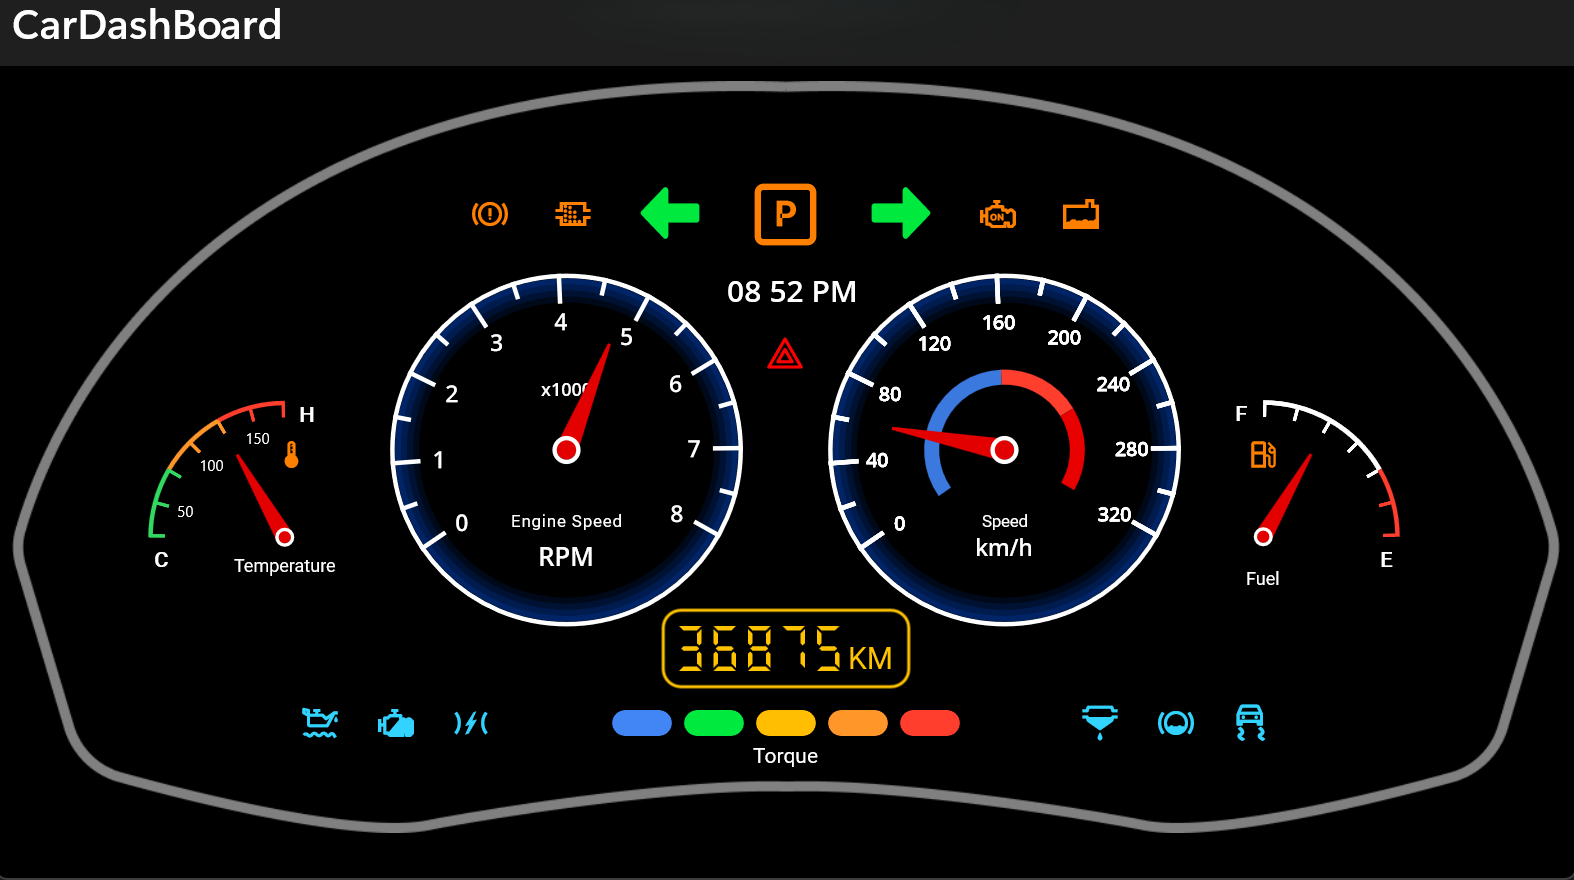
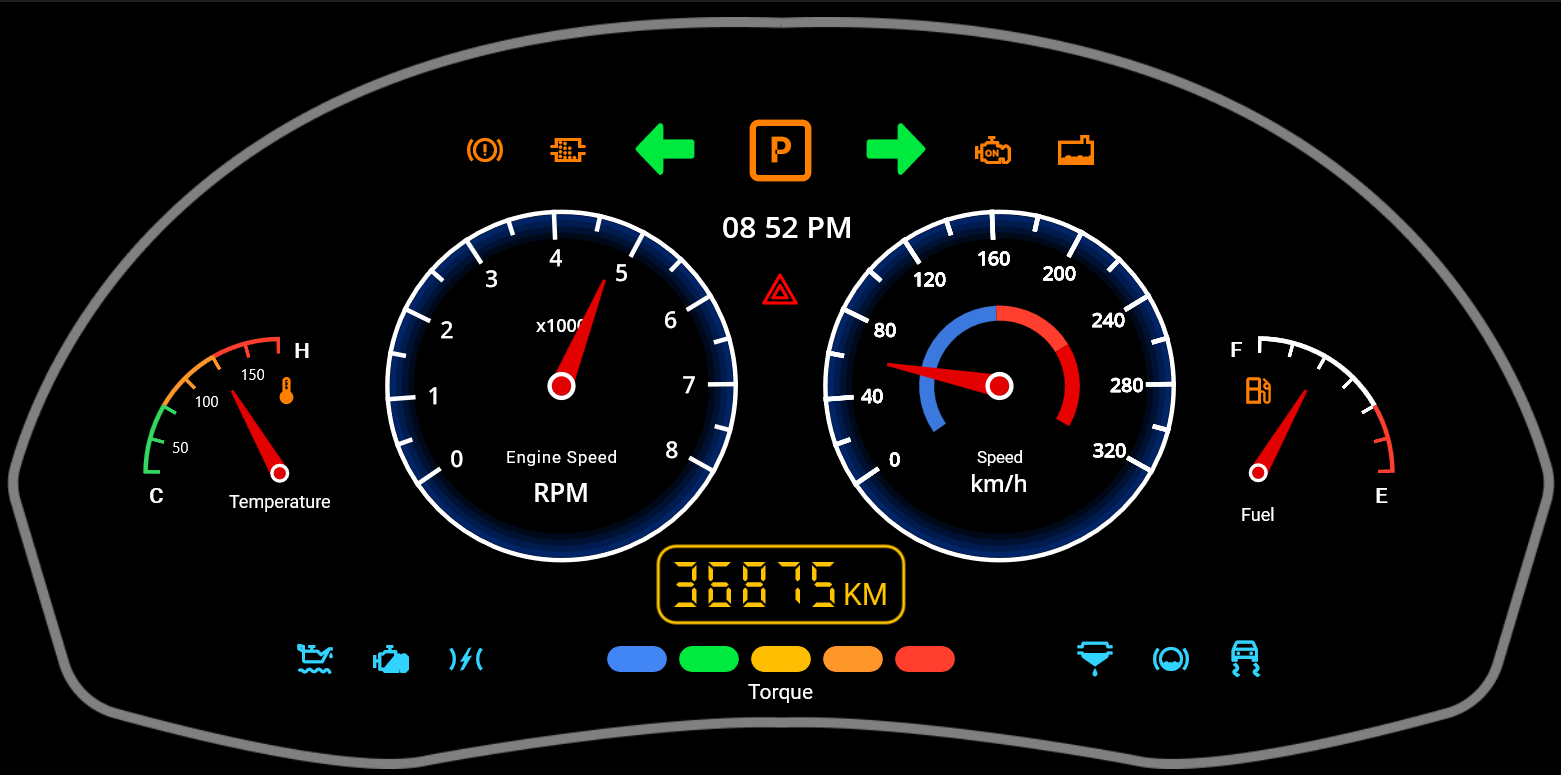
934406 - Addressed Review Correction

diff --git a/README.md b/README.md
@@ -45,9 +45,7 @@ This project uses the following Syncfusion controls based on the information in 
 
 .NET Multi-platform App UI (.NET MAUI) apps can be written for the following platforms:
 
-* Android 5.0 (API 21) or higher.
-* iOS 11 or higher, using the latest release of Xcode.
-* macOS 10.15 or higher, using Mac Catalyst.
+* macOS 15.1 or higher, using Mac Catalyst.
 * Windows 11 and Windows 10 version 1809 or higher, using [Windows UI Library (WinUI) 3](https://learn.microsoft.com/en-us/windows/apps/winui/winui3/).
 
 ## Requirements to run the sample
@@ -59,7 +57,7 @@ Refer to the following link for more details: [System Requirements](https://help
 
 ## How to run the sample
 
-1. Clone the sample and open it in Visual Studio 2022.
+1. Clone the sample and open it in Visual Studio 2022 preview.
 
    *Note: If you download the sample using the "Download ZIP" option, right-click it, select Properties, and then select Unblock.*
 